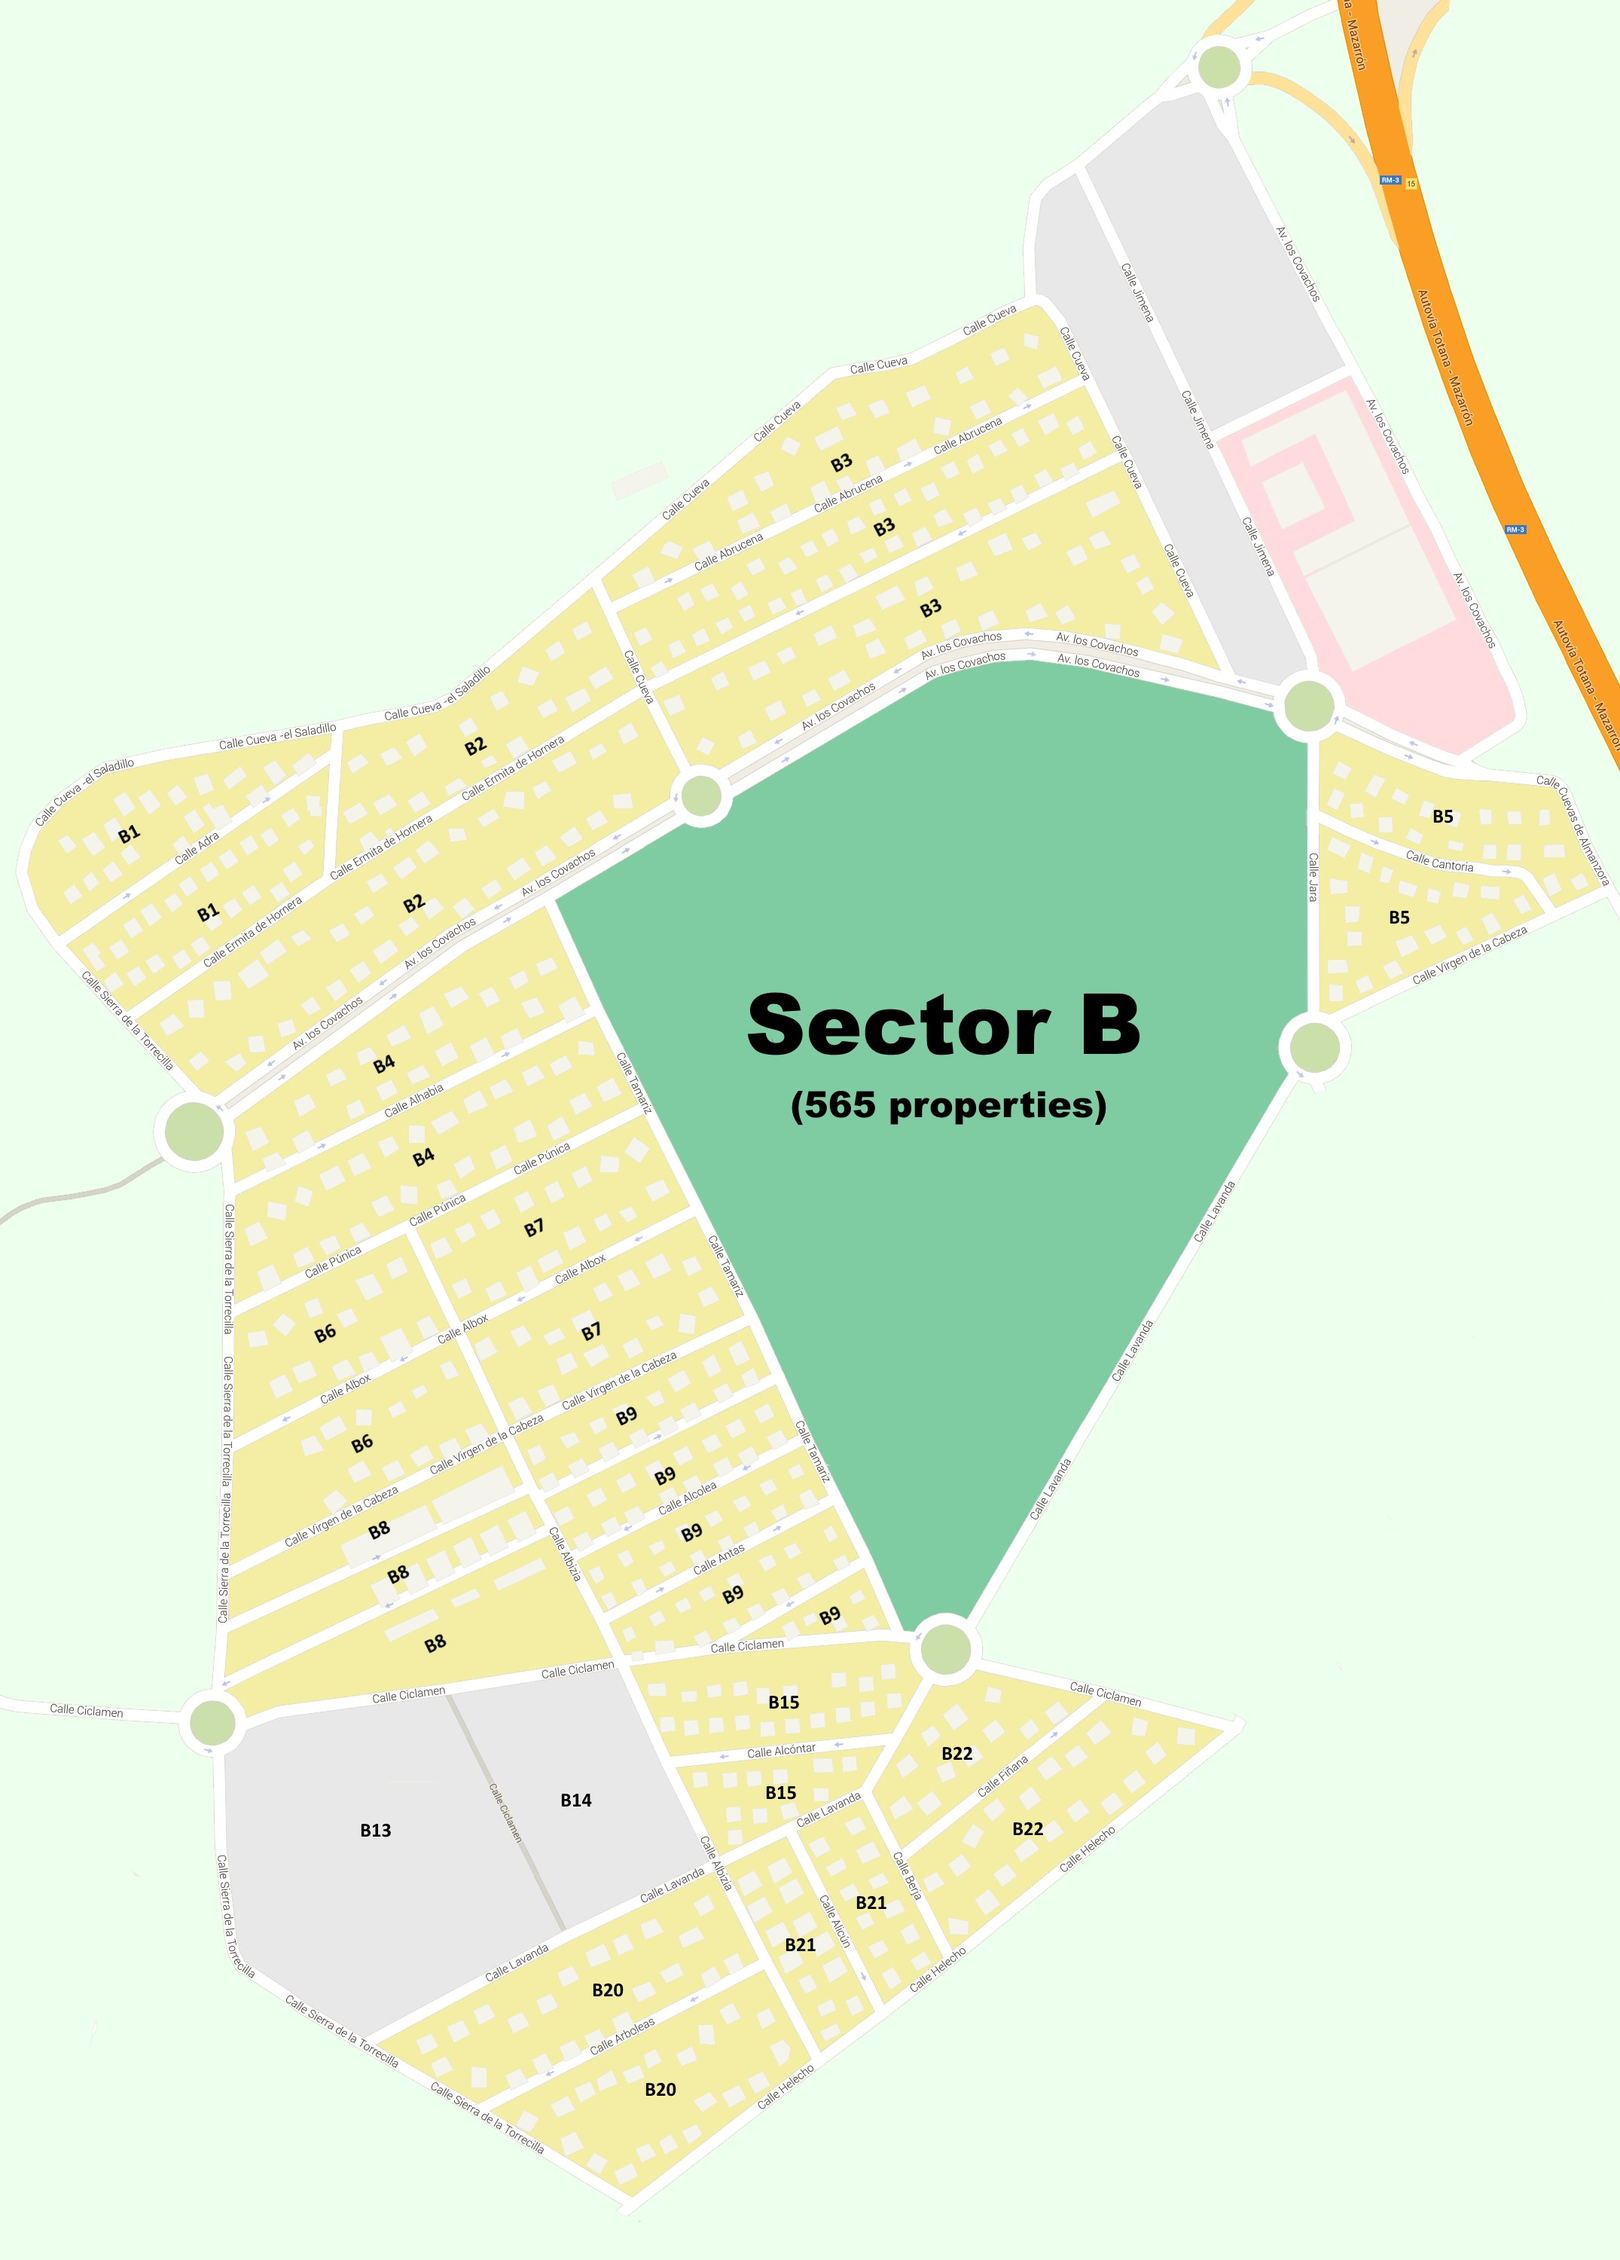
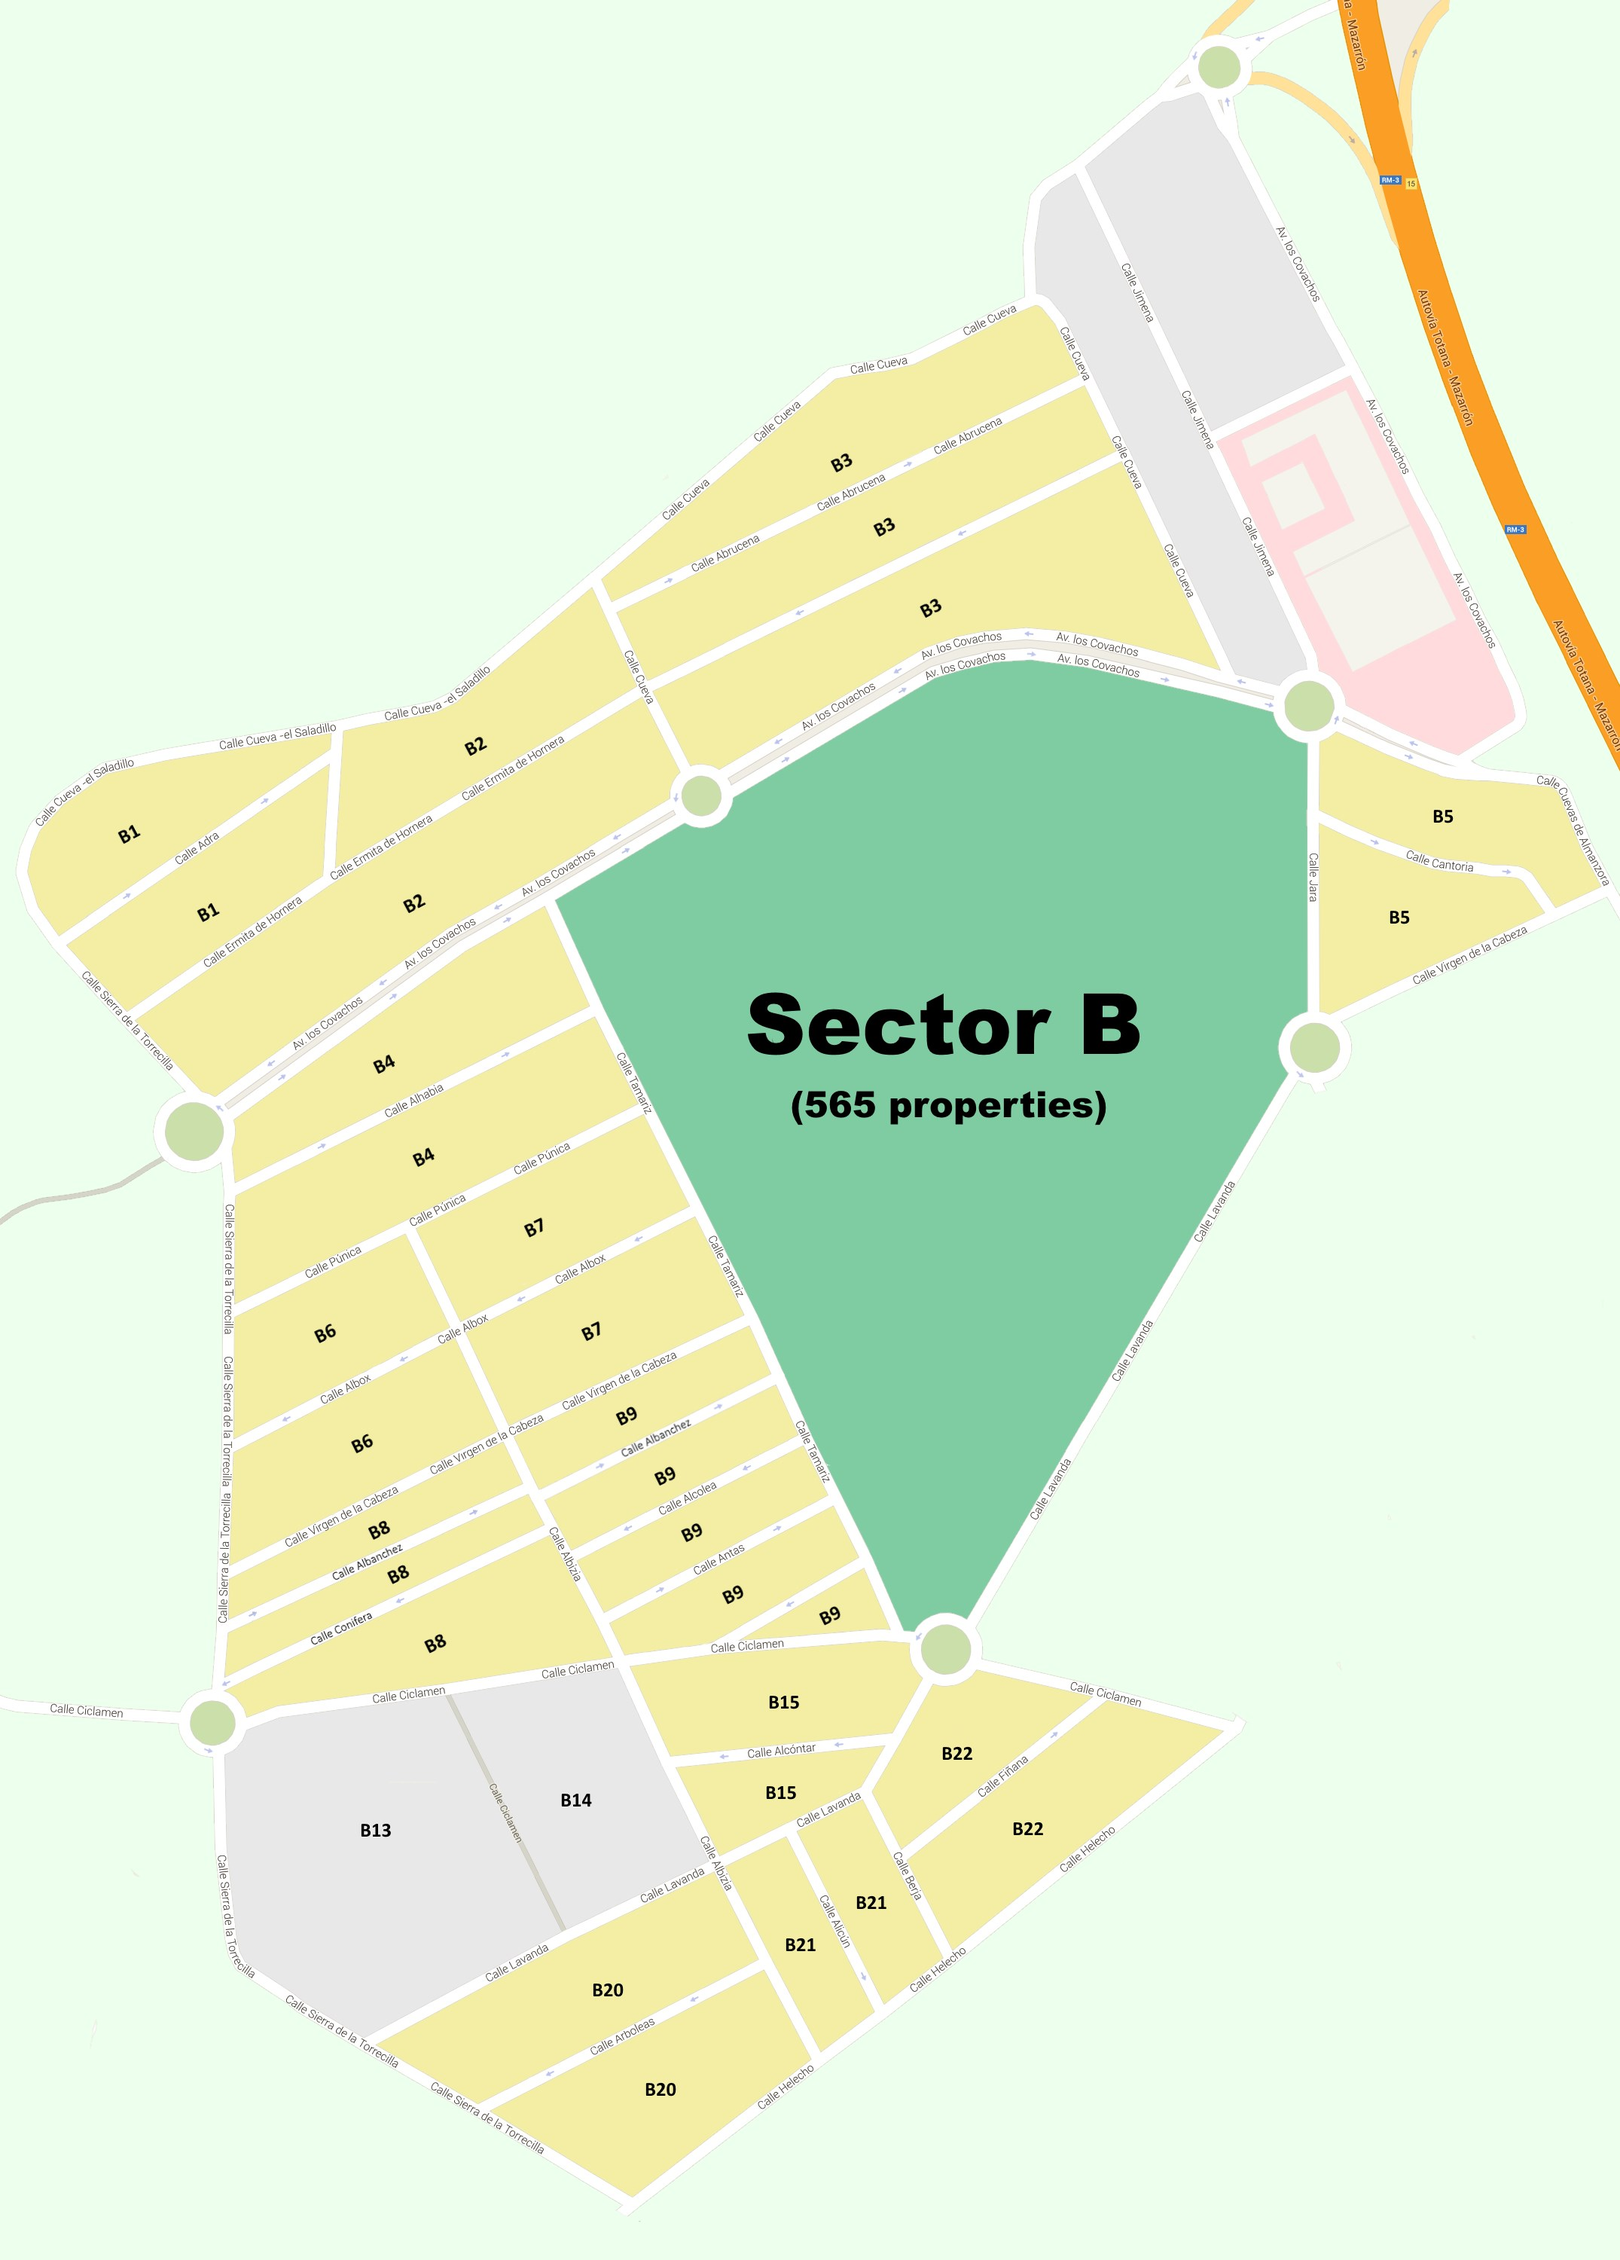
Version 2.2
Calle Conifera added to sector B and house graphics removed from sector
B map.

diff --git a/map.html b/map.html
@@ -457,7 +457,7 @@ function set_b_data()
 	num_pts[3] = 4;
 	num_pts[4] = 7;
 	num_pts[5] = 2;
-	num_pts[6] = 4;
+	num_pts[6] = 2;
 	num_pts[7] = 2;
 	num_pts[8] = 2;
 	num_pts[9] = 2;
@@ -482,9 +482,11 @@ function set_b_data()
 	num_pts[28] = 2;
 	num_pts[29] = 2;
 	num_pts[30] = 2;
+	num_pts[31] = 2;
 	
-	x_coord = new Array(31);
-	for (i=0; i<31; i++)
+	
+	x_coord = new Array(32);
+	for (i=0; i<32; i++)
 	x_coord[i]=new Array(10);
 	
 	x_coord[0][0] = 1947;x_coord[0][1] = 1741;x_coord[0][2] = 1363;x_coord[0][3] = 1237;x_coord[0][4] = 932;x_coord[0][5] = 599;x_coord[0][6] = 292;x_coord[0][7] = 251667;x_coord[0][8] = 251667;x_coord[0][9] = 251667;
@@ -493,7 +495,7 @@ function set_b_data()
 	x_coord[3][0] = 295;x_coord[3][1] = 704;x_coord[3][2] = 717;x_coord[3][3] = 1030;x_coord[3][4] = 251667;x_coord[3][5] = 251667;x_coord[3][6] = 251667;x_coord[3][7] = 251667;x_coord[3][8] = 251667;x_coord[3][9] = 251667;
 	x_coord[4][0] = 540;x_coord[4][1] = 609;x_coord[4][2] = 733;x_coord[4][3] = 801;x_coord[4][4] = 888;x_coord[4][5] = 1019;x_coord[4][6] = 1086;x_coord[4][7] = 251667;x_coord[4][8] = 251667;x_coord[4][9] = 251667;
 	x_coord[5][0] = 302;x_coord[5][1] = 926;x_coord[5][2] = 251667;x_coord[5][3] = 251667;x_coord[5][4] = 251667;x_coord[5][5] = 251667;x_coord[5][6] = 251667;x_coord[5][7] = 251667;x_coord[5][8] = 251667;x_coord[5][9] = 251667;
-	x_coord[6][0] = 292;x_coord[6][1] = 737;x_coord[6][2] = 759;x_coord[6][3] = 1070;x_coord[6][4] = 251667;x_coord[6][5] = 251667;x_coord[6][6] = 251667;x_coord[6][7] = 251667;x_coord[6][8] = 251667;x_coord[6][9] = 251667;
+	x_coord[6][0] = 759;x_coord[6][1] = 1070;x_coord[6][2] = 251667;x_coord[6][3] = 251667;x_coord[6][4] = 251667;x_coord[6][5] = 251667;x_coord[6][6] = 251667;x_coord[6][7] = 251667;x_coord[6][8] = 251667;x_coord[6][9] = 251667;
 	x_coord[7][0] = 890;x_coord[7][1] = 1185;x_coord[7][2] = 251667;x_coord[7][3] = 251667;x_coord[7][4] = 251667;x_coord[7][5] = 251667;x_coord[7][6] = 251667;x_coord[7][7] = 251667;x_coord[7][8] = 251667;x_coord[7][9] = 251667;
 	x_coord[8][0] = 304;x_coord[8][1] = 792;x_coord[8][2] = 251667;x_coord[8][3] = 251667;x_coord[8][4] = 251667;x_coord[8][5] = 251667;x_coord[8][6] = 251667;x_coord[8][7] = 251667;x_coord[8][8] = 251667;x_coord[8][9] = 251667;
 	x_coord[9][0] = 1047;x_coord[9][1] = 1172;x_coord[9][2] = 251667;x_coord[9][3] = 251667;x_coord[9][4] = 251667;x_coord[9][5] = 251667;x_coord[9][6] = 251667;x_coord[9][7] = 251667;x_coord[9][8] = 251667;x_coord[9][9] = 251667;
@@ -518,9 +520,10 @@ function set_b_data()
 	x_coord[28][0] = 448;x_coord[28][1] = 437;x_coord[28][2] = 251667;x_coord[28][3] = 251667;x_coord[28][4] = 251667;x_coord[28][5] = 251667;x_coord[28][6] = 251667;x_coord[28][7] = 251667;x_coord[28][8] = 251667;x_coord[28][9] = 251667;
 	x_coord[29][0] = 298;x_coord[29][1] = 995;x_coord[29][2] = 251667;x_coord[29][3] = 251667;x_coord[29][4] = 251667;x_coord[29][5] = 251667;x_coord[29][6] = 251667;x_coord[29][7] = 251667;x_coord[29][8] = 251667;x_coord[29][9] = 251667;
 	x_coord[30][0] = 1768;x_coord[30][1] = 2137;x_coord[30][2] = 251667;x_coord[30][3] = 251667;x_coord[30][4] = 251667;x_coord[30][5] = 251667;x_coord[30][6] = 251667;x_coord[30][7] = 251667;x_coord[30][8] = 251667;x_coord[30][9] = 251667;
+	x_coord[31][0] = 292;x_coord[31][1] = 737;x_coord[31][2] = 251667;x_coord[31][3] = 251667;x_coord[31][4] = 251667;x_coord[31][5] = 251667;x_coord[31][6] = 251667;x_coord[31][7] = 251667;x_coord[31][8] = 251667;x_coord[31][9] = 251667;
 
-	y_coord = new Array(31);
-	for (i=0; i<31; i++)
+	y_coord = new Array(32);
+	for (i=0; i<32; i++)
 	y_coord[i]=new Array(10);
 
 	y_coord[0][0] = 1022;y_coord[0][1] = 936;y_coord[0][2] = 854;y_coord[0][3] = 878;y_coord[0][4] = 1061;y_coord[0][5] = 1251;y_coord[0][6] = 1476;y_coord[0][7] = 8871515;y_coord[0][8] = 8871515;y_coord[0][9] = 8871515;
@@ -529,7 +532,7 @@ function set_b_data()
 	y_coord[3][0] = 2161;y_coord[3][1] = 1976;y_coord[3][2] = 1986;y_coord[3][3] = 1828;y_coord[3][4] = 8871515;y_coord[3][5] = 8871515;y_coord[3][6] = 8871515;y_coord[3][7] = 8871515;y_coord[3][8] = 8871515;y_coord[3][9] = 8871515;
 	y_coord[4][0] = 1626;y_coord[4][1] = 1767;y_coord[4][2] = 2029;y_coord[4][3] = 2151;y_coord[4][4] = 2340;y_coord[4][5] = 2604;y_coord[4][6] = 2735;y_coord[4][7] = 8871515;y_coord[4][8] = 8871515;y_coord[4][9] = 8871515;
 	y_coord[5][0] = 1921;y_coord[5][1] = 1605;y_coord[5][2] = 8871515;y_coord[5][3] = 8871515;y_coord[5][4] = 8871515;y_coord[5][5] = 8871515;y_coord[5][6] = 8871515;y_coord[5][7] = 8871515;y_coord[5][8] = 8871515;y_coord[5][9] = 8871515;
-	y_coord[6][0] = 2236;y_coord[6][1] = 2030;y_coord[6][2] = 2069;y_coord[6][3] = 1910;y_coord[6][4] = 8871515;y_coord[6][5] = 8871515;y_coord[6][6] = 8871515;y_coord[6][7] = 8871515;y_coord[6][8] = 8871515;y_coord[6][9] = 8871515;
+	y_coord[6][0] = 2069;y_coord[6][1] = 1910;y_coord[6][2] = 8871515;y_coord[6][3] = 8871515;y_coord[6][4] = 8871515;y_coord[6][5] = 8871515;y_coord[6][6] = 8871515;y_coord[6][7] = 8871515;y_coord[6][8] = 8871515;y_coord[6][9] = 8871515;
 	y_coord[7][0] = 2340;y_coord[7][1] = 2309;y_coord[7][2] = 8871515;y_coord[7][3] = 8871515;y_coord[7][4] = 8871515;y_coord[7][5] = 8871515;y_coord[7][6] = 8871515;y_coord[7][7] = 8871515;y_coord[7][8] = 8871515;y_coord[7][9] = 8871515;
 	y_coord[8][0] = 1581;y_coord[8][1] = 1339;y_coord[8][2] = 8871515;y_coord[8][3] = 8871515;y_coord[8][4] = 8871515;y_coord[8][5] = 8871515;y_coord[8][6] = 8871515;y_coord[8][7] = 8871515;y_coord[8][8] = 8871515;y_coord[8][9] = 8871515;
 	y_coord[9][0] = 2429;y_coord[9][1] = 2671;y_coord[9][2] = 8871515;y_coord[9][3] = 8871515;y_coord[9][4] = 8871515;y_coord[9][5] = 8871515;y_coord[9][6] = 8871515;y_coord[9][7] = 8871515;y_coord[9][8] = 8871515;y_coord[9][9] = 8871515;
@@ -554,6 +557,7 @@ function set_b_data()
 	y_coord[28][0] = 964;y_coord[28][1] = 1164;y_coord[28][2] = 8871515;y_coord[28][3] = 8871515;y_coord[28][4] = 8871515;y_coord[28][5] = 8871515;y_coord[28][6] = 8871515;y_coord[28][7] = 8871515;y_coord[28][8] = 8871515;y_coord[28][9] = 8871515;
 	y_coord[29][0] = 2091;y_coord[29][1] = 1751;y_coord[29][2] = 8871515;y_coord[29][3] = 8871515;y_coord[29][4] = 8871515;y_coord[29][5] = 8871515;y_coord[29][6] = 8871515;y_coord[29][7] = 8871515;y_coord[29][8] = 8871515;y_coord[29][9] = 8871515;
 	y_coord[30][0] = 1354;y_coord[30][1] = 1183;y_coord[30][2] = 8871515;y_coord[30][3] = 8871515;y_coord[30][4] = 8871515;y_coord[30][5] = 8871515;y_coord[30][6] = 8871515;y_coord[30][7] = 8871515;y_coord[30][8] = 8871515;y_coord[30][9] = 8871515;
+	y_coord[31][0] = 2236;y_coord[31][1] = 2030;y_coord[31][2] = 8871515;y_coord[31][3] = 8871515;y_coord[31][4] = 8871515;y_coord[31][5] = 8871515;y_coord[31][6] = 8871515;y_coord[31][7] = 8871515;y_coord[31][8] = 8871515;y_coord[31][9] = 8871515;
 }
 
 function set_c_data()

diff --git a/index.html b/index.html
@@ -33,7 +33,7 @@ $(document).ready(function() {
 <div class="body">
 
 <div role="main" class="main"><div class="container">
-	<div class="row"><div class="col-md-12" style="text-align:center;"><div class="blue_top_cell"><h1>FAST Map (Version 2.1)</h1></div></div></div>
+	<div class="row"><div class="col-md-12" style="text-align:center;"><div class="blue_top_cell"><h1>FAST Map (Version 2.2)</h1></div></div></div>
 	<div class="row"><div class="col-md-12"><div class="toogle"><div class="white_bot_cell">
 		<section class="toggle">
 			<label>Sector A</label>
@@ -112,6 +112,7 @@ $(document).ready(function() {
 				<button class="btn btn-primary btn-lg" style="margin:0.25em;" data-value1="2" data-value2="12" data-value3='Bedar')>Bedar</button>
 				<button class="btn btn-primary btn-lg" style="margin:0.25em;" data-value1="2" data-value2="13" data-value3='Berja')>Berja</button>
 				<button class="btn btn-primary btn-lg" style="margin:0.25em;" data-value1="2" data-value2="14" data-value3='Cantoria')>Cantoria</button>
+				<button class="btn btn-primary btn-lg" style="margin:0.25em;" data-value1="2" data-value2="31" data-value3='Conifera')>Conifera</button> 
 				<button class="btn btn-primary btn-lg" style="margin:0.25em;" data-value1="2" data-value2="15" data-value3='Cuervas de Almonzoia')>Cuervas de Almonzoia</button>
 				<button class="btn btn-primary btn-lg" style="margin:0.25em;" data-value1="2" data-value2="16" data-value3='Cueva del Pelciego')>Cueva del Pelciego</button>
 				<button class="btn btn-primary btn-lg" style="margin:0.25em;" data-value1="2" data-value2="17" data-value3='Cyclaman')>Cyclaman</button>
